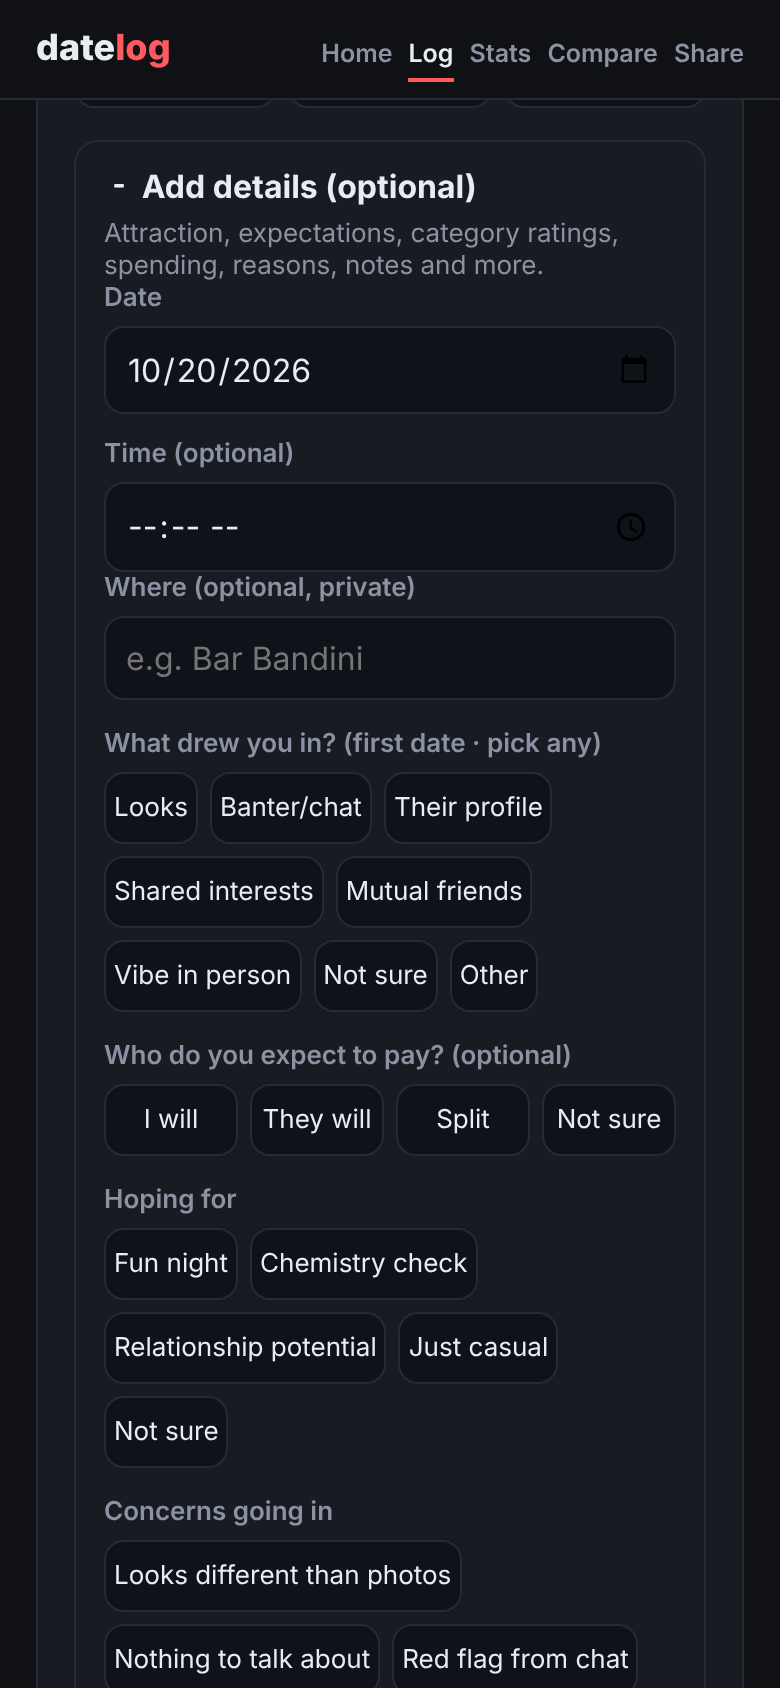
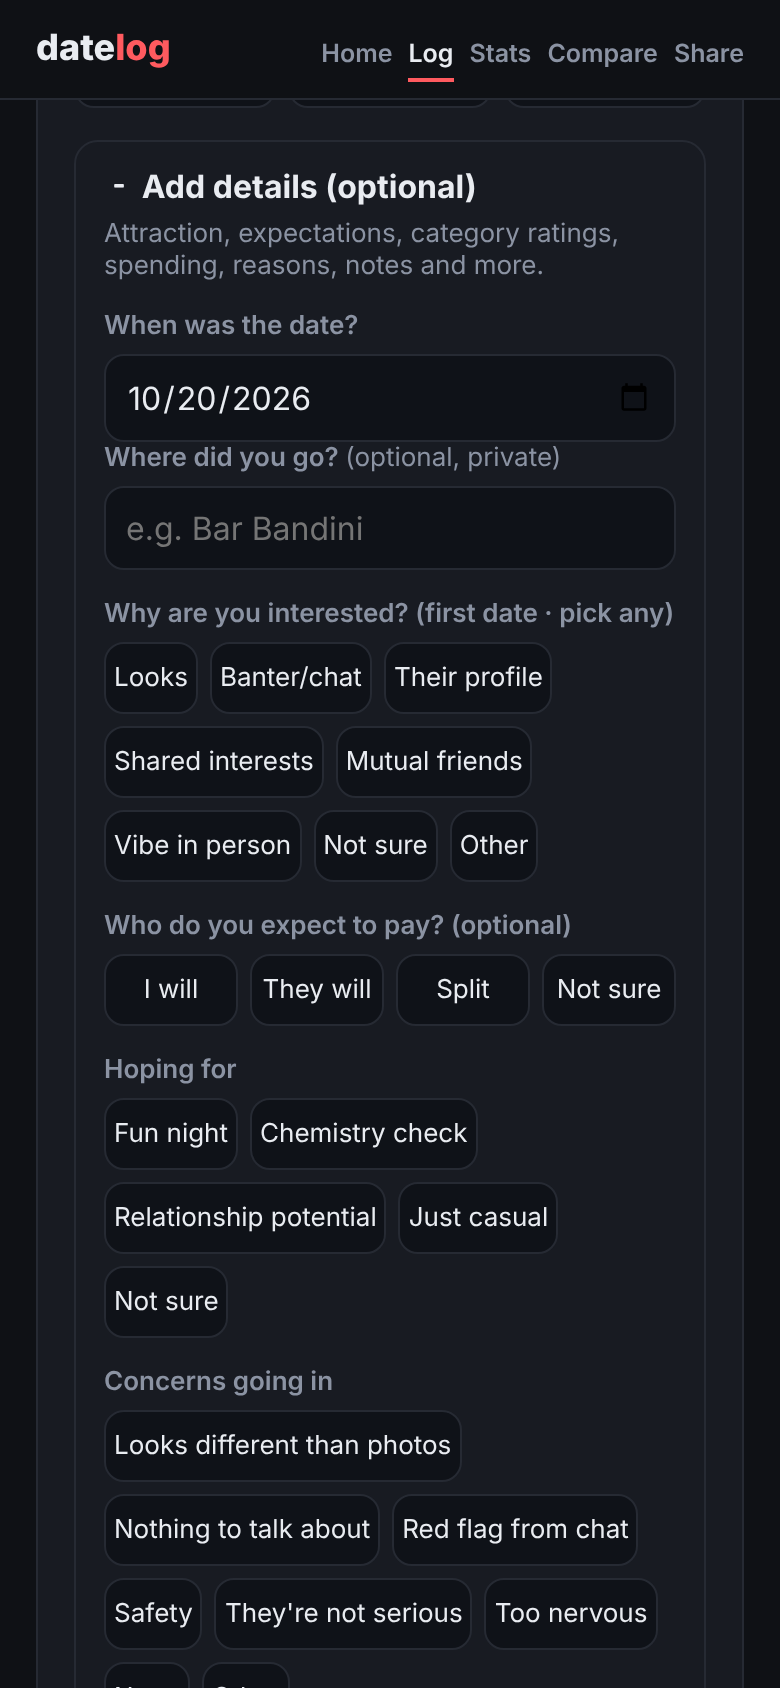
Log: drop time, who first, 5W question labels

diff --git a/index.html b/index.html
@@ -94,14 +94,12 @@ input,select,textarea{width:100%;background:#0f1218;border:1px solid var(--line)
  <p class="muted" id="fHelp">Nickname or initials only. No full names, photos or contact info.</p>
  <form id="f" autocomplete="off">
  <div id="quickSec">
- <div class="grid" id="qDate">
-  <div><label>Date</label><input type="date" name="date" required></div>
-  <div><label>Time (optional)</label><input type="time" name="time"></div>
- </div>
- <div class="fld"><label>Who was the date with?</label><input name="nick" list="nicks" maxlength="12" placeholder="e.g. J.R. or 'Climber'"><datalist id="nicks"></datalist><small class="muted" id="nickHint"></small></div>
-  <div class="fld"><label>Where did you meet?</label><div id="metChips" class="seg"></div><select name="met" class="hide"><option>Hinge</option><option>Bumble</option><option>Tinder</option><option>Raya</option><option>Other app</option><option>In person</option><option>At work</option><option>Set up</option><option>Other</option></select><input name="otherDetail" class="hide" maxlength="40" placeholder="What other? (private)" style="margin-top:6px"></div>
- <div class="fld"><label>Date type</label><div class="seg" data-n="type"></div></div>
-<div class="preOnly"> <div class="fld"><label>Excitement going in</label><div class="seg" data-n="excite"></div></div>
+<div class="fld" id="qNick"><label>Who was the date with?</label><input name="nick" list="nicks" maxlength="12" placeholder="e.g. J.R. or 'Climber'"><datalist id="nicks"></datalist><small class="muted" id="nickHint"></small></div>
+ <div class="fld" id="qDate"><label>When was the date?</label><input type="date" name="date" required><input type="hidden" name="time" value=""></div>
+
+  <div class="fld"><label>How did you meet?</label><div id="metChips" class="seg"></div><select name="met" class="hide"><option>Hinge</option><option>Bumble</option><option>Tinder</option><option>Raya</option><option>Other app</option><option>In person</option><option>At work</option><option>Set up</option><option>Other</option></select><input name="otherDetail" class="hide" maxlength="40" placeholder="What other? (private)" style="margin-top:6px"></div>
+ <div class="fld"><label>What did you do?</label><div class="seg" data-n="type"></div></div>
+<div class="preOnly"> <div class="fld"><label>How excited are you?</label><div class="seg" data-n="excite"></div></div>
 </div>
  <div class="fld postOnly"><label>How was the date? <span class="muted" style="font-weight:400">(overall)</span></label><div class="seg stars" data-n="went"></div></div>
  <div class="fld postOnly"><label>Would you see them again?</label><div class="seg" data-n="mine"></div></div>
@@ -109,9 +107,9 @@ input,select,textarea{width:100%;background:#0f1218;border:1px solid var(--line)
  <details id="more"><summary>Add details (optional)</summary><p class="muted" style="font-size:13px;margin:6px 0 0">Attraction, expectations, category ratings, spending, reasons, notes and more.</p><div id="moreDate"></div>
  <div id="preSec">
  <div class="grid">
-  <div><label>Where (optional, private)</label><input name="where" maxlength="40" placeholder="e.g. Bar Bandini"></div>
+  <div><label>Where did you go? <span class="muted" style="font-weight:400">(optional, private)</span></label><input name="where" maxlength="40" placeholder="e.g. Bar Bandini"></div>
  </div>
- <div class="fld" id="drawBox"><label>What drew you in? <span class="muted">(first date · pick any)</span></label><div class="seg multi" data-n="draw"></div><input data-o="draw" class="hide oth" maxlength="40" placeholder="What else? (private)"></div>
+ <div class="fld" id="drawBox"><label>Why are you interested? <span class="muted">(first date · pick any)</span></label><div class="seg multi" data-n="draw"></div><input data-o="draw" class="hide oth" maxlength="40" placeholder="What else? (private)"></div>
  <div class="fld"><label>Who do you expect to pay? (optional)</label><div class="seg" data-n="expPaid"></div></div>
  <div class="fld"><label>Hoping for</label><div class="seg multi" data-n="hoping"></div></div>
  <div class="fld"><label>Concerns going in</label><div class="seg multi" data-n="concerns"></div><input data-o="concerns" class="hide oth" maxlength="40" placeholder="Other concern (private)"></div>
@@ -218,7 +216,7 @@ const showWhy=m=>m=='no',showThey=(m,t,s)=>(m=='yes'||m=='maybe')&&(t=='no'||(t=
 let mode='post',editId=null,askAfter=false;const f=$('#f');
 function syncMet(){const c=$('#metChips');if(!c.children.length){c.innerHTML=[...f.met.options].map(o=>`<button type="button" data-v="${esc(o.value)}">${esc(o.value)}</button>`).join('');c.onclick=e=>{const b=e.target.closest('button');if(!b)return;f.met.value=b.dataset.v;f.met.onchange();syncMet()}}$$('button',c).forEach(b=>b.classList.toggle('on',b.dataset.v==f.met.value))}
 function upd(){syncMet();$$('#f .preOnly').forEach(e=>e.classList.toggle('hide',mode!='pre'));$$('#f .postOnly').forEach(e=>e.classList.toggle('hide',mode=='pre'));
- {const q=$('#qDate');if(mode=='pre'){if(q.parentNode.id!='quickSec')$('#quickSec').prepend(q)}else if(q.parentNode.id!='moreDate')$('#moreDate').append(q)}
+ {const q=$('#qDate');if(mode=='pre'){if(q.parentNode.id!='quickSec')$('#qNick').after(q)}else if(q.parentNode.id!='moreDate')$('#moreDate').append(q)}
  {const on=+getSeg('went')||0;$$('#f .stars button').forEach((b,i)=>b.classList.toggle('lit',i<on))}
  $('#saveAsk').classList.toggle('hide',mode!='pre'||!!editId);$('#postSec').classList.toggle('hide',mode=='pre');$$('#modeSeg button').forEach(b=>b.classList.toggle('on',b.dataset.m==(mode=='review'?'post':mode)));$('#modeSeg').classList.toggle('hide',mode=='review');
  $('#whyBox').classList.toggle('hide',!showWhy(getSeg('mine')));$('#theyBox').classList.toggle('hide',!showThey(getSeg('mine'),getSeg('theirs'),getSeg('second')));
